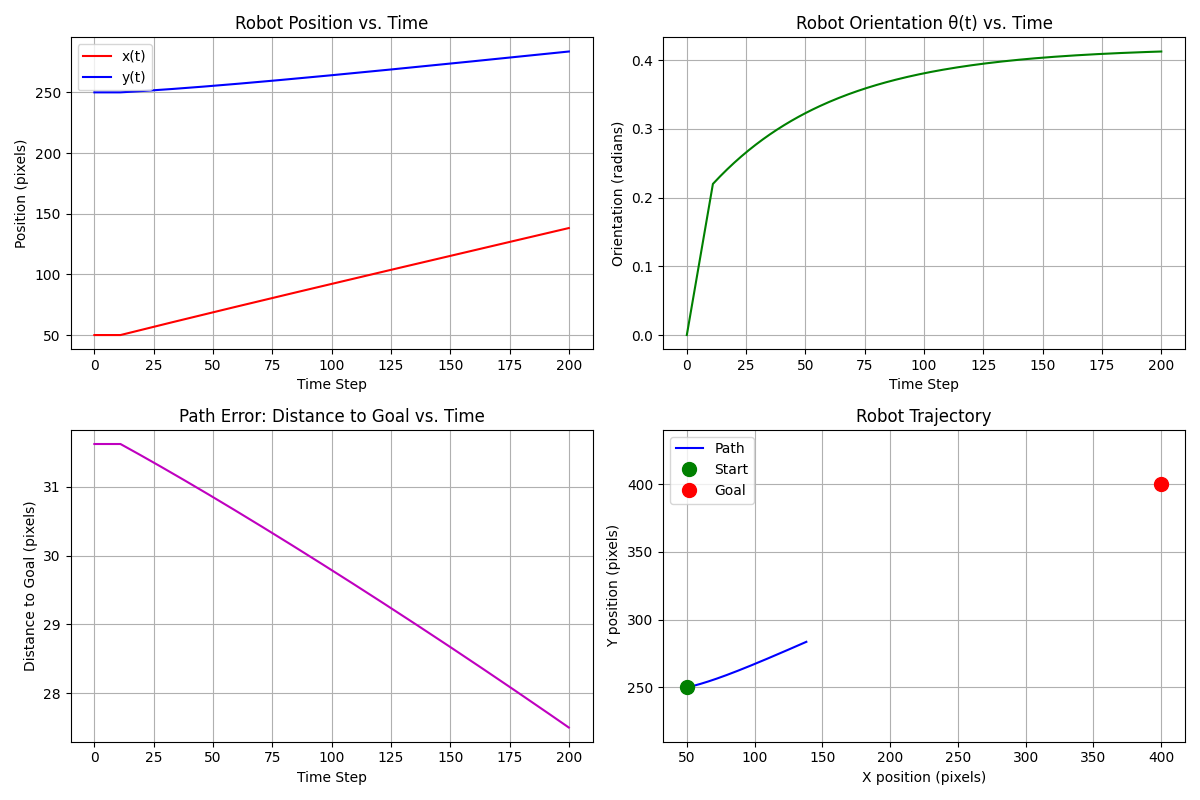
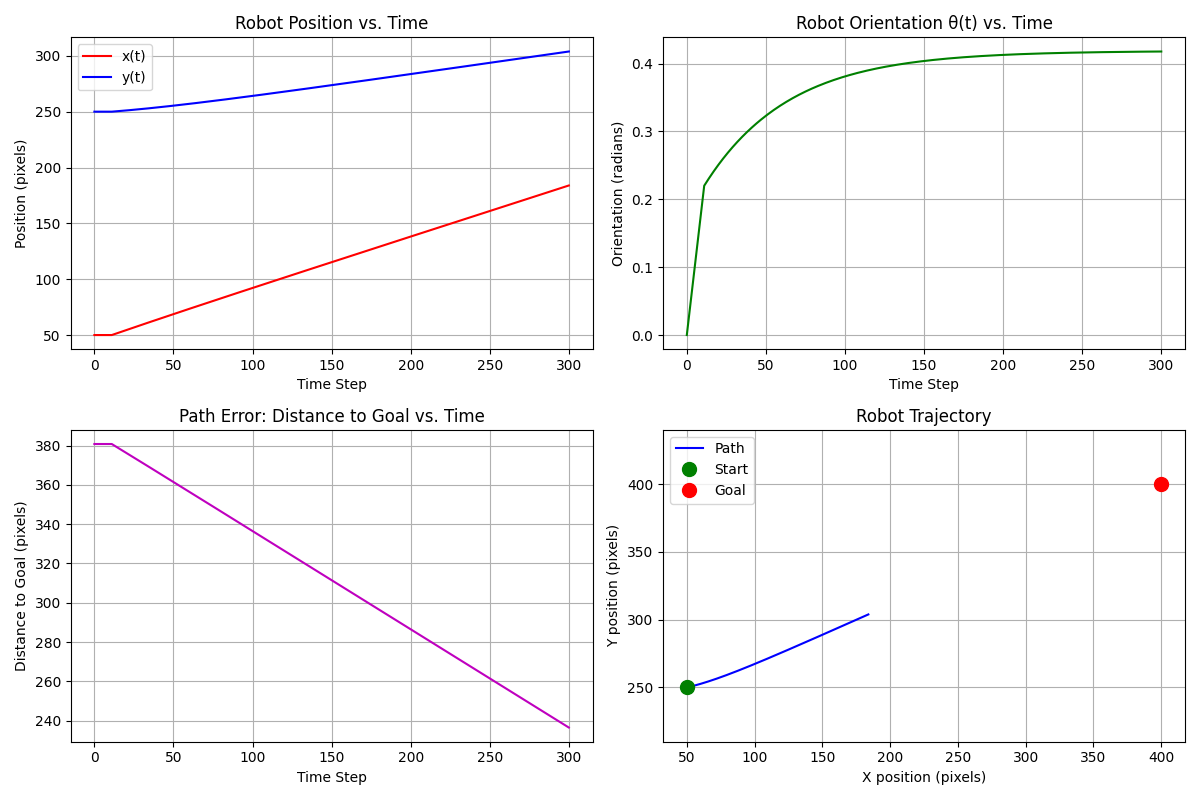
added the functionalities for the integration of the system

diff --git a/src/main_integration.py b/src/main_integration.py
@@ -1,0 +1,98 @@
+# This is the main script to integrates object detection with robot simulation.
+from object_detection import detect_apple
+from robot_simulation import DifferentialDriveRobot
+import cv2
+import numpy as np
+
+def run_full_simulation(world_image_path):
+    """
+    Runs the complete integrated simulation:
+    1. Detect the apple in the world image to get the goal coordinates.
+    2. Simulate the robot navigating to those coordinates.
+    3. Generate and save all performance plots.
+    """
+    print("="*50)
+    print("STARTING INTEGRATED SIMULATION")
+    print("="*50)
+    
+    print("\n1. Detecting apple in the world...")
+    goal_point = detect_apple(world_image_path, show_windows=True)
+    
+    if goal_point is None:
+        print("ERROR: Could not find the apple. Cannot run simulation.")
+        return
+    
+    goal_x, goal_y = goal_point
+    print(f"Apple detected at: ({goal_x}, {goal_y})")
+    
+    print("\n2. Starting robot simulation to the detected goal...")
+    # Create a robot instance starting at (50, 250) and facing right (0 radians)
+    robot = DifferentialDriveRobot(x=50, y=250, theta=0)
+    
+    # Simulation parameters
+    dt = 0.1
+    max_steps = 300
+    reached_goal = False
+    
+    for step in range(max_steps):
+        x, y, theta = robot.get_pose()
+        
+        # Calculate distance and angle to the goal
+        distance_to_goal = np.sqrt((goal_x - x)*2 + (goal_y - y)*2)
+        angle_to_goal = np.arctan2(goal_y - y, goal_x - x)
+        
+        # Simple go-to-goal controller
+        if distance_to_goal < 15:  # If we are close to the goal, stop
+            print("Goal reached!")
+            reached_goal = True
+            break
+            
+        # Calculate the angle difference
+        angle_error = angle_to_goal - theta
+        # Normalize the angle error
+        angle_error = (angle_error + np.pi) % (2 * np.pi) - np.pi
+        
+        # Set the base forward velocity
+        base_speed = 5.0
+        # Adjusting wheel speeds
+        if abs(angle_error) > 0.2:  # If error is large, turn in place
+            v_left = -np.sign(angle_error) * 2.0
+            v_right = np.sign(angle_error) * 2.0
+        else:
+            v_left = base_speed - 2.0 * angle_error
+            v_right = base_speed + 2.0 * angle_error
+            
+        robot.move(v_left, v_right, dt)
+        
+        if step % 25 == 0:
+            print(f"Step {step}: Position ({x:.1f}, {y:.1f}), Distance: {distance_to_goal:.1f}")
+    
+    if not reached_goal:
+        print(f"Stopped after {max_steps} steps. Final distance: {distance_to_goal:.1f}")
+        
+    print("\n3. Generating performance plots and visualization...")
+    # Create the performance plots
+    robot.plot_performance(goal_x, goal_y)
+    
+    # Create visualization image
+    world_image = cv2.imread(world_image_path)
+    for i, (x, y) in enumerate(zip(robot.path_x, robot.path_y)):
+        cv2.circle(world_image, (int(x), int(y)), 2, (255, 0, 0), -1)  # Blue path
+        if i == len(robot.path_x) - 1:  # Draw last position larger
+            cv2.circle(world_image, (int(x), int(y)), 8, (0, 0, 255), -1)  # Red final position
+    
+    # Draw start and goal
+    cv2.circle(world_image, (int(robot.path_x[0]), int(robot.path_y[0])), 8, (0, 255, 0), -1)  # Green start
+    cv2.circle(world_image, (goal_x, goal_y), 8, (0, 0, 255), -1)  # Red goal
+    
+    # Save the final visualized world
+    output_path = '../results/final_navigation_result.png'
+    cv2.imwrite(output_path, world_image)
+    print(f"Final navigation visualization saved to: {output_path}")
+    
+    print("\n" + "="*50)
+    print("SIMULATION COMPLETE")
+    print("="*50)
+
+if __name__ == "__main__":
+    run_full_simulation('../data/simulated_world.png')
